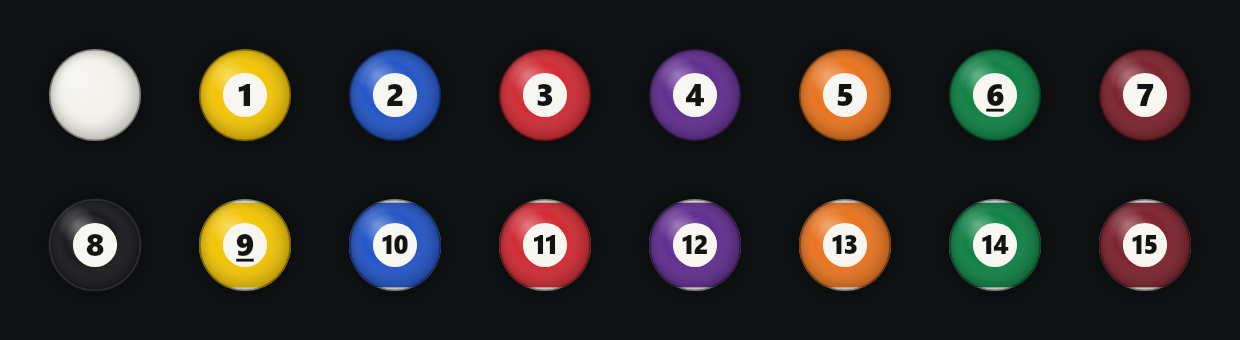
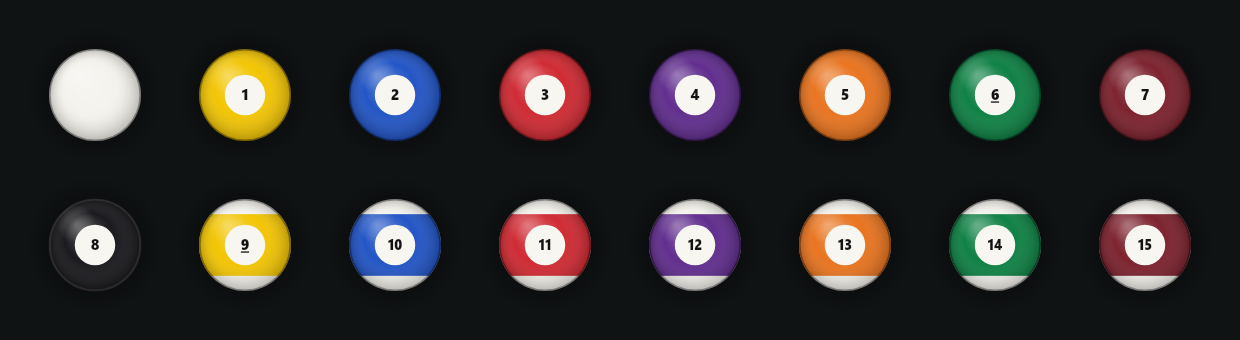
Usable power slider, projected ball decal, wider stripe white, no 0 on the cue ball
The power bar was a 4px sliver only reachable with the scroll wheel, so one scroll down left every shot at 5% and it looked like the table froze after half a second. It is now a draggable slider with a knob and a readout. The number decal is projected through the ball's orientation instead of being a sticker that slid and spun. Cue ball no longer gets a numeral when the aim line is hidden. Stripe band narrowed so the white poles read. Spin resets after every shot. Top cue speed down from 8 to 5.2.

diff --git a/src/render/scene.ts b/src/render/scene.ts
@@ -301,7 +301,8 @@ export class Scene {
     if (view.showAim && !view.placing) this.drawAim(view);
     for (const b of view.balls) {
       if (b.pocketed) continue;
-      drawBall(ctx, b, view.showAim && b.id === view.cueBallId, BALL_R * this.scale);
+      // The cue ball never has a number, whatever the aim state is.
+      drawBall(ctx, b, b.id === view.cueBallId, BALL_R * this.scale);
     }
     if (view.placing && view.hover) drawPlacement(ctx, view.hover);
 
@@ -420,10 +421,10 @@ export function drawBall(
   ctx.fillRect(x - R, y - R, R * 2, R * 2);
 
   if (stripe && !isCue) {
-    // The patch sits on top of the band, so the band has to run well past it
-    // or the ball reads as a solid with a white spot.
+    // Narrow enough that the white poles read clearly. A band that reaches the
+    // top and bottom of the ball just looks like a solid.
     ctx.fillStyle = hue;
-    ctx.fillRect(x - R, y - R * 0.92, R * 2, R * 1.84);
+    ctx.fillRect(x - R, y - R * 0.67, R * 2, R * 1.34);
   }
 
   // Shading and highlight go down before the number. Shading the patch as
@@ -469,7 +470,6 @@ export function drawBall(
   }
 
   if (!isCue) {
-    // number patch, projected through the orientation
     const n: V3 = qRotate(b.q, { x: 0, y: 0, z: 1 });
     if (detail === 0) {
       // Too small for a numeral. A plain dot still reads as a marked ball.
@@ -477,48 +477,49 @@ export function drawBall(
       ctx.beginPath();
       ctx.arc(x, y, R * 0.32, 0, TAU);
       ctx.fill();
-    } else if (n.z > 0.02) {
-      const up: V3 = qRotate(b.q, { x: 0, y: 1, z: 0 });
-      const px2 = x + n.x * R * 0.68;
-      const py2 = y + n.y * R * 0.68;
-      const shrink = Math.sqrt(n.z);
+    } else if (n.z > 0.06) {
+      // The number is a circular decal painted onto the sphere. Projecting it
+      // properly is what makes a rolling ball look like a ball: the patch turns
+      // into an ellipse as it rolls away from the camera and the digit is
+      // squashed by exactly the same amount. Drawn as a flat sticker that
+      // merely slides and spins, it looks wrong.
+      const u: V3 = qRotate(b.q, { x: 0, y: 1, z: 0 });
+      const v: V3 = qRotate(b.q, { x: 1, y: 0, z: 0 });
+      const capR = (detail >= 2 ? 0.44 : 0.5) * R;
+      const alpha = Math.asin(Math.min(1, capR / R));
+      const s = R * Math.sin(alpha);
+      const ex = x + n.x * R * Math.cos(alpha);
+      const ey = y + n.y * R * Math.cos(alpha);
 
       ctx.save();
-      ctx.translate(px2, py2);
-      ctx.rotate(Math.atan2(up.y, up.x) - Math.PI / 2);
+      // Local space: a unit circle is the decal, +x is the ball's right and
+      // +y its up, both already foreshortened by the projection.
+      ctx.transform(s * v.x, s * v.y, s * u.x, s * u.y, ex, ey);
 
-      const pr = R * (detail >= 2 ? 0.48 : 0.52) * shrink;
       ctx.fillStyle = '#f8f6f0';
       ctx.beginPath();
-      ctx.ellipse(0, 0, pr, pr * (0.62 + 0.38 * n.z), 0, 0, TAU);
+      ctx.arc(0, 0, 1, 0, TAU);
       ctx.fill();
 
       const label = String(b.id);
       const two = label.length > 1;
-      // Real balls have a numeral about a fifth of the ball high. Going much
-      // bigger than that stops looking like a pool ball at all.
-      const fs = R * (two ? (detail >= 2 ? 0.58 : 0.52) : detail >= 2 ? 0.68 : 0.62) * shrink;
-
-      // The font is set at a normal pixel size and the canvas is scaled to
-      // match. Setting a 0.02px font and letting the world transform blow it
-      // up does not survive Skia's text layout.
       const TEXT = 64;
-      const k = fs / TEXT;
-      ctx.save();
-      ctx.scale(two ? k * 0.94 : k, k);
+      const fontPx = 46;
+      // Scale down instead of setting a tiny font: sub-pixel font sizes do not
+      // survive Skia's text layout.
+      ctx.scale(1 / TEXT, 1 / TEXT);
       ctx.fillStyle = '#131313';
-      ctx.font = `800 ${TEXT}px "Segoe UI", ui-sans-serif, system-ui, sans-serif`;
+      ctx.font = `800 ${fontPx}px "Segoe UI", ui-sans-serif, system-ui, sans-serif`;
       ctx.textAlign = 'center';
       ctx.textBaseline = 'alphabetic';
-      // Digits run from about -0.72em to +0.02em about the baseline, so the
-      // ink centre sits 0.35em below it.
-      ctx.fillText(label, 0, TEXT * 0.35);
+      ctx.save();
+      if (two) ctx.scale(0.92, 1);
+      ctx.fillText(label, 0, fontPx * 0.35);
       ctx.restore();
 
       // 6 and 9 get the little underscore so they are never ambiguous
       if (b.id === 6 || b.id === 9) {
-        ctx.fillStyle = '#131313';
-        ctx.fillRect(-fs * 0.28, fs * 0.44, fs * 0.56, fs * 0.09);
+        ctx.fillRect(-fontPx * 0.28, fontPx * 0.44, fontPx * 0.56, fontPx * 0.09);
       }
       ctx.restore();
     }

diff --git a/src/app.ts b/src/app.ts
@@ -66,13 +66,18 @@ export class App {
     }
     this.el.power = document.getElementById('power')!;
     this.el.powerFill = document.getElementById('powerfill')!;
+    this.el.powerKnob = document.getElementById('powerknob')!;
+    this.el.powerLabel = document.getElementById('powerlabel')!;
 
     this.wireSetup();
     this.wireInput();
+    this.wirePower();
     this.updateSpinLabel();
     this.setRotated(window.innerWidth < window.innerHeight);
 
     window.addEventListener('resize', () => this.scene.resize());
+    // Handy for the headless browser checks; harmless in production.
+    (window as unknown as Record<string, unknown>).__game = this;
     requestAnimationFrame((t) => {
       this.last = t;
       this.loop(t);
@@ -345,6 +350,43 @@ export class App {
 
   // ----------------------------------------------------------------- input
 
+  private wirePower(): void {
+    const el = this.el.power!;
+    const track = document.getElementById('powertrack')!;
+    let dragging = false;
+
+    const apply = (clientY: number): void => {
+      const r = track.getBoundingClientRect();
+      if (r.height <= 0) return;
+      this.power = clamp(1 - (clientY - r.top) / r.height, 0.05, 1);
+    };
+
+    el.addEventListener('pointerdown', (e) => {
+      dragging = true;
+      el.setPointerCapture(e.pointerId);
+      apply(e.clientY);
+      e.preventDefault();
+    });
+    el.addEventListener('pointermove', (e) => {
+      if (dragging) apply(e.clientY);
+    });
+    el.addEventListener('pointerup', (e) => {
+      dragging = false;
+      el.releasePointerCapture(e.pointerId);
+    });
+    el.addEventListener('pointercancel', () => {
+      dragging = false;
+    });
+    el.addEventListener(
+      'wheel',
+      (e) => {
+        e.preventDefault();
+        this.power = clamp(this.power - e.deltaY * 0.0012, 0.05, 1);
+      },
+      { passive: false },
+    );
+  }
+
   private wireInput(): void {
     const canvas = document.getElementById('table') as HTMLCanvasElement;
     let downAt: { x: number; y: number } | null = null;
@@ -494,6 +536,7 @@ export class App {
     const done = this.afterPlay;
     this.afterPlay = null;
     done?.();
+    this.spin.set({ x: 0, y: 0 });
     if (this.pending) {
       const s = this.pending;
       this.pending = null;
@@ -573,6 +616,9 @@ export class App {
 
     const pct = Math.round(this.power * 100);
     this.el.powerFill!.style.height = `${pct}%`;
+    this.el.powerKnob!.style.bottom = `${pct}%`;
+    this.el.powerLabel!.textContent = `${pct}%`;
+    this.el.power!.setAttribute('aria-valuenow', String(pct));
   }
 
   private updateHud(now: number): void {

diff --git a/test/physics.test.ts b/test/physics.test.ts
@@ -40,9 +40,10 @@ describe('rack', () => {
 describe('cue strike', () => {
   it('sends a centre hit down the aim line', () => {
     const res = shoot([cue(-0.5)], { aim: 0, power: 0.5, spin: { x: 0, y: 0 } });
-    const b = res.balls[0];
-    expect(b.p.x).toBeGreaterThan(-0.5);
-    expect(Math.abs(b.p.y)).toBeLessThan(0.02);
+    // A fiftieth of a second in, before it can reach a cushion and come back.
+    const f = res.frames[Math.round(0.05 * 240)];
+    expect(f.data[0]).toBeGreaterThan(-0.45);
+    expect(Math.abs(f.data[1])).toBeLessThan(0.02);
   });
 
   it('gives a centre hit a little more than rolling spin', () => {
@@ -77,10 +78,14 @@ describe('cue strike', () => {
   });
 
   it('deflects the cue ball away from the side the tip hits', () => {
-    const straight = shoot([cue(-0.5)], { aim: 0, power: 0.5, spin: { x: 0, y: 0 } });
-    const right = shoot([cue(-0.5)], { aim: 0, power: 0.5, spin: { x: 0.4, y: 0 } });
+    // Squirt is an initial direction change, so measure it while the ball is
+    // still travelling rather than after it has bounced around the table.
+    const drift = (sx: number): number => {
+      const res = shoot([cue(-0.5)], { aim: 0, power: 0.6, spin: { x: sx, y: 0 } });
+      return res.frames[Math.round(0.08 * 240)].data[1];
+    };
     // Right english pushes the ball to the left, so it ends up at lower y.
-    expect(right.balls[0].p.y).toBeLessThan(straight.balls[0].p.y - 0.001);
+    expect(drift(0.4)).toBeLessThan(drift(0) - 0.001);
   });
 
   it('refuses to apply more spin than the miscue limit', () => {

diff --git a/src/style.css b/src/style.css
@@ -174,14 +174,26 @@ button.wide {
 
 #power {
   position: absolute;
-  right: 26px;
+  right: 14px;
   top: 50%;
   transform: translateY(-50%);
-  width: 4px;
-  height: 34vh;
-  background: #ffffff10;
+  width: 40px;
+  height: 42vh;
+  display: flex;
+  flex-direction: column;
+  align-items: center;
+  gap: 10px;
+  touch-action: none;
+  cursor: ns-resize;
+  user-select: none;
+}
+
+#powertrack {
+  position: relative;
+  width: 8px;
+  flex: 1;
+  background: #ffffff14;
   border-radius: 999px;
-  overflow: hidden;
 }
 
 #powerfill {
@@ -190,8 +202,28 @@ button.wide {
   left: 0;
   right: 0;
   height: 55%;
+  border-radius: 999px;
   background: linear-gradient(to top, #2f9a70, #9fe3c1);
-  transition: height 0.08s linear;
+}
+
+#powerknob {
+  position: absolute;
+  left: 50%;
+  bottom: 55%;
+  width: 18px;
+  height: 18px;
+  margin-left: -9px;
+  margin-bottom: -9px;
+  border-radius: 50%;
+  background: #f2f0ea;
+  box-shadow: 0 1px 6px #00000080;
+  pointer-events: none;
+}
+
+#powerlabel {
+  font: 600 10px/1 ui-monospace, monospace;
+  letter-spacing: 0.08em;
+  color: var(--dim);
 }
 
 #spinwrap {

diff --git a/index.html b/index.html
@@ -27,7 +27,13 @@
       <div id="hint" class="hidden"></div>
       <div id="toast" class="hidden"></div>
 
-      <div id="power"><div id="powerfill"></div></div>
+      <div id="power" role="slider" aria-label="Shot power" aria-valuemin="0" aria-valuemax="100" tabindex="0">
+        <div id="powertrack">
+          <div id="powerfill"></div>
+          <div id="powerknob"></div>
+        </div>
+        <div id="powerlabel">55%</div>
+      </div>
 
       <div id="spinwrap">
         <canvas id="spin" width="132" height="132"></canvas>

diff --git a/src/core/constants.ts b/src/core/constants.ts
@@ -40,7 +40,8 @@ export const SIDE_GAP = 0.075;
 /** Radius of the little rounded jaw at the end of each cushion. */
 export const JAW_R = 0.013;
 
-export const MAX_CUE_SPEED = 8.0; // m/s, roughly a firm break
+/** Top of the power bar. A firm shot, not a pro break. */
+export const MAX_CUE_SPEED = 5.2;
 
 /** Sidespin makes the cue ball leave the tip at an angle. Radians per R of offset. */
 export const SQUIRT_PER_R = 0.10; // ~0.05 rad / 2.9 deg at maximum offset

diff --git a/docs/physics.md b/docs/physics.md
@@ -172,7 +172,7 @@ Straight off a 9ft table with 2¼" balls.
 | cushion restitution | 0.82 | |
 | ball–ball friction | 0.06 | drives throw |
 | cushion friction | 0.20 | drives english |
-| max cue speed | 8 m/s | firm break |
+| max cue speed | 5.2 m/s | firm shot, not a pro break |
 
 ## Known gaps
 
@@ -187,3 +187,7 @@ Straight off a 9ft table with 2¼" balls.
   They do rattle balls out, which is the behaviour that matters.
 - **No jump shots.** Needs cue elevation in the input model and a vertical
   dimension in the simulation.
+- **The stripe on a striped ball does not tumble.** The number is projected
+  properly, so it rolls over the top of the ball and squashes as it goes, but
+  the colour band is drawn as a flat horizontal strip. Doing it correctly needs
+  the band to be clipped per pixel against the sphere.

diff --git a/README.md b/README.md
@@ -32,7 +32,7 @@ Node 20+.
 | | |
 |---|---|
 | Aim | move the mouse |
-| Power | mouse wheel, or ↑ / ↓ |
+| Power | drag the bar on the right, or ↑ / ↓ |
 | Fine aim | ← / → (hold Shift for 0.1°) |
 | Spin | drag the little ball in the bottom right; double click to reset |
 | Shoot | click, or Space |
